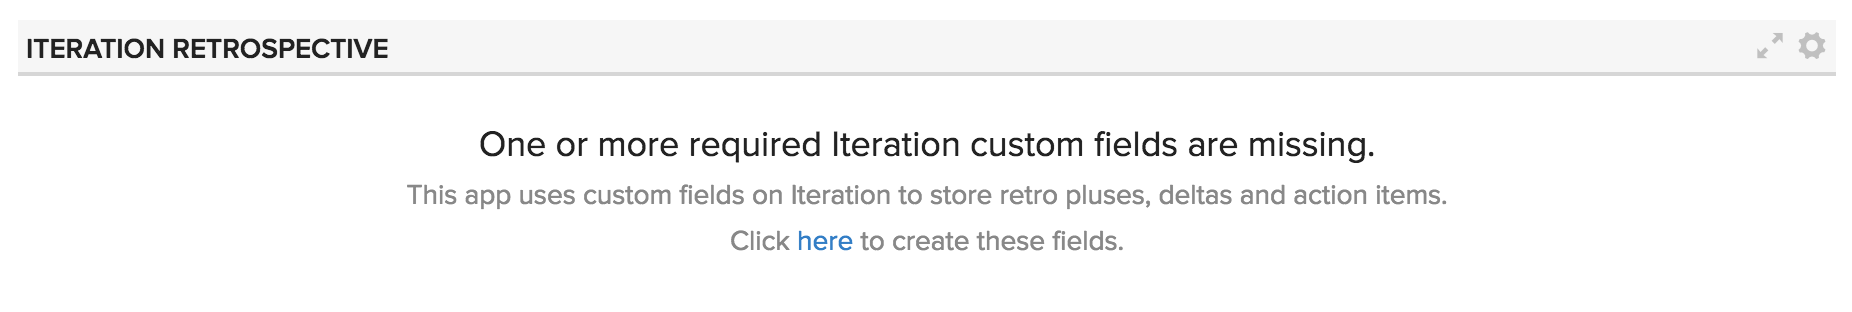
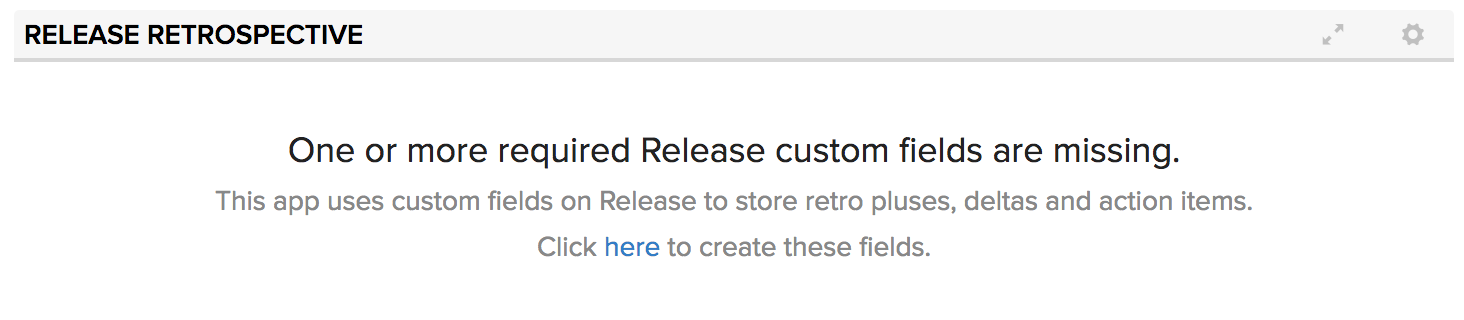
Fix screenshots

diff --git a/deploy/App-external.html b/deploy/App-external.html
@@ -7,7 +7,7 @@
 
     <script type="text/javascript">
         Rally.onReady(function () {
-                var REQUIRED_FIELDS={c_RetroPluses:"Retro Pluses",c_RetroDeltas:"Retro Deltas",c_RetroActions:"Retro Actions"};Ext.define("IterationRetroApp",{extend:"Rally.app.TimeboxScopedApp",componentCls:"app",scopeType:"iteration",supportsUnscheduled:!1,initComponent:function(){this.callParent(arguments),this.add({xtype:"container",itemId:"content"})},onScopeChange:function(){this.callParent(arguments),this.models?this._loadIteration():Rally.data.wsapi.ModelFactory.getModels({context:this.getContext(),types:["Iteration","AttributeDefinition"],success:function(models){this.models=models,this._loadIteration()},scope:this})},onNoAvailableTimeboxes:function(){this.callParent(arguments);var contentContainer=this.down("#content");contentContainer&&contentContainer.removeAll()},_loadIteration:function(){var id=this.getContext().getTimeboxScope().getRecord().getId();this.models.Iteration.load(id,{fetch:_.keys(REQUIRED_FIELDS)}).then({success:function(iteration){this.iteration=iteration,this._checkForFields()},scope:this})},_checkForFields:function(){var contentContainer=this.down("#content");if(contentContainer.removeAll(),_.every(_.keys(REQUIRED_FIELDS),this._fieldExists,this))contentContainer.add([{xtype:"panel",cls:"plus-panel",title:"+",titleAlign:"center",minWidth:550,items:[this._buildEditorFor("c_RetroPluses")]},{xtype:"panel",cls:"delta-panel",title:"Δ",titleAlign:"center",minWidth:550,items:[this._buildEditorFor("c_RetroDeltas")]},{xtype:"panel",cls:"actions-panel",title:"Action Items",titleAlign:"center",minWidth:550,items:[this._buildEditorFor("c_RetroActions")]}]);else{var isWorkspaceAdmin=this.getContext().getPermissions().isWorkspaceOrSubscriptionAdmin(this.getContext().getWorkspace());contentContainer.add({itemId:"missingFieldsBlankSlate",xtype:"container",cls:"no-data-container",items:[{xtype:"component",cls:"primary-message",html:"One or more required Iteration custom fields are missing."},{xtype:"component",cls:"secondary-message",html:"This app uses custom fields on Iteration to store retro pluses, deltas and action items."},{xtype:"component",cls:"secondary-message",html:isWorkspaceAdmin?'Click <a href="#" class="create-fields-link">here</a> to create these fields.':"Please contact a workspace administrator to set up these fields using this app.",listeners:{afterrender:function(cmp){var linkEl=cmp.getEl().down(".create-fields-link");this.mon(linkEl,"click",this._createRequiredFields,this)},scope:this}}]})}},_buildEditorFor:function(fieldName){return{xtype:"rallyrichtexteditor",itemId:fieldName.replace("c_R","r"),fieldName:fieldName,showUndoButton:!0,margin:"0 10px",height:200,value:this.iteration.get(fieldName),listeners:{blur:this._onEditorChange,scope:this}}},_fieldExists:function(name){return!!_.find(this.models.Iteration.getFields(),function(field){return field.isCustom()&&"text"===field.getType()&&field.name===name})},_createRequiredFields:function(e){e.preventDefault(),this.setLoading({msg:"Creating fields..."});var missingFields=_.reject(_.keys(REQUIRED_FIELDS),this._fieldExists,this);Deft.Promise.all(_.map(missingFields,this._createRequiredField,this)).then({success:this._requiredFieldsCreated,scope:this})},_createRequiredField:function(name){_.each(["RealAttributeType","Constrained","TypeDefinition"],function(fieldName){this.models.AttributeDefinition.getField(fieldName).persist=!0},this);var newField=Ext.create(this.models.AttributeDefinition,{RealAttributeType:"TEXT",Constrained:!1,Custom:!0,Filterable:!0,Sortable:!1,Name:REQUIRED_FIELDS[name],TypeDefinition:Rally.util.Ref.getRelativeUri(this.models.Iteration.typeDefinition)});return newField.save()},_requiredFieldsCreated:function(){Rally.data.wsapi.ModelFactory.clearModels(),Rally.data.wsapi.ModelFactory.getModel({context:this.getContext(),type:"Iteration"}).then({success:function(model){this.models.Iteration=model,this.setLoading(!1),this.onScopeChange()},scope:this})},_onEditorChange:function(editor){this.iteration.set(editor.fieldName,editor.getValue()),this.iteration.save({fetch:_.keys(REQUIRED_FIELDS)}).then({success:function(iteration){this.iteration=iteration,Ext.create("Rally.ui.detail.view.SavedIndicator",{target:editor})},scope:this})}});
+                var REQUIRED_FIELDS={c_RetroPluses:"Retro Pluses",c_RetroDeltas:"Retro Deltas",c_RetroActions:"Retro Actions"};Ext.define("ReleaseRetroApp",{extend:"Rally.app.TimeboxScopedApp",componentCls:"app",scopeType:"release",supportsUnscheduled:!1,initComponent:function(){this.callParent(arguments),this.add({xtype:"container",itemId:"content"})},onScopeChange:function(){this.callParent(arguments),this.models?this._loadRelease():Rally.data.wsapi.ModelFactory.getModels({context:this.getContext(),types:["Release","AttributeDefinition"],success:function(models){this.models=models,this._loadRelease()},scope:this})},onNoAvailableTimeboxes:function(){this.callParent(arguments);var contentContainer=this.down("#content");contentContainer&&contentContainer.removeAll()},_loadRelease:function(){var id=this.getContext().getTimeboxScope().getRecord().getId();this.models.Release.load(id,{fetch:_.keys(REQUIRED_FIELDS)}).then({success:function(release){this.release=release,this._checkForFields()},scope:this})},_checkForFields:function(){var contentContainer=this.down("#content");if(contentContainer.removeAll(),_.every(_.keys(REQUIRED_FIELDS),this._fieldExists,this))contentContainer.add([{xtype:"panel",cls:"plus-panel",title:"+",titleAlign:"center",minWidth:550,items:[this._buildEditorFor("c_RetroPluses")]},{xtype:"panel",cls:"delta-panel",title:"Δ",titleAlign:"center",minWidth:550,items:[this._buildEditorFor("c_RetroDeltas")]},{xtype:"panel",cls:"actions-panel",title:"Action Items",titleAlign:"center",minWidth:550,items:[this._buildEditorFor("c_RetroActions")]}]);else{var isWorkspaceAdmin=this.getContext().getPermissions().isWorkspaceOrSubscriptionAdmin(this.getContext().getWorkspace());contentContainer.add({itemId:"missingFieldsBlankSlate",xtype:"container",cls:"no-data-container",items:[{xtype:"component",cls:"primary-message",html:"One or more required Release custom fields are missing."},{xtype:"component",cls:"secondary-message",html:"This app uses custom fields on Release to store retro pluses, deltas and action items."},{xtype:"component",cls:"secondary-message",html:isWorkspaceAdmin?'Click <a href="#" class="create-fields-link">here</a> to create these fields.':"Please contact a workspace administrator to set up these fields using this app.",listeners:{afterrender:function(cmp){var linkEl=cmp.getEl().down(".create-fields-link");this.mon(linkEl,"click",this._createRequiredFields,this)},scope:this}}]})}},_buildEditorFor:function(fieldName){return{xtype:"rallyrichtexteditor",itemId:fieldName.replace("c_R","r"),fieldName:fieldName,showUndoButton:!0,margin:"0 10px",height:200,value:this.release.get(fieldName),listeners:{blur:this._onEditorChange,scope:this}}},_fieldExists:function(name){return!!_.find(this.models.Release.getFields(),function(field){return field.isCustom()&&"text"===field.getType()&&field.name===name})},_createRequiredFields:function(e){e.preventDefault(),this.setLoading({msg:"Creating fields..."});var missingFields=_.reject(_.keys(REQUIRED_FIELDS),this._fieldExists,this);Deft.Promise.all(_.map(missingFields,this._createRequiredField,this)).then({success:this._requiredFieldsCreated,scope:this})},_createRequiredField:function(name){_.each(["RealAttributeType","Constrained","TypeDefinition"],function(fieldName){this.models.AttributeDefinition.getField(fieldName).persist=!0},this);var newField=Ext.create(this.models.AttributeDefinition,{RealAttributeType:"TEXT",Constrained:!1,Custom:!0,Filterable:!0,Sortable:!1,Name:REQUIRED_FIELDS[name],TypeDefinition:Rally.util.Ref.getRelativeUri(this.models.Release.typeDefinition)});return newField.save()},_requiredFieldsCreated:function(){Rally.data.wsapi.ModelFactory.clearModels(),Rally.data.wsapi.ModelFactory.getModel({context:this.getContext(),type:"Release"}).then({success:function(model){this.models.Release=model,this.setLoading(!1),this.onScopeChange()},scope:this})},_onEditorChange:function(editor){this.release.set(editor.fieldName,editor.getValue()),this.release.save({fetch:_.keys(REQUIRED_FIELDS)}).then({success:function(release){this.release=release,Ext.create("Rally.ui.detail.view.SavedIndicator",{target:editor})},scope:this})}});
 
             Rally.launchApp('ReleaseRetroApp', {
                 name:"Release Retrospective",

diff --git a/deploy/App.html b/deploy/App.html
@@ -7,7 +7,7 @@
 
     <script type="text/javascript">
         Rally.onReady(function () {
-                var REQUIRED_FIELDS={c_RetroPluses:"Retro Pluses",c_RetroDeltas:"Retro Deltas",c_RetroActions:"Retro Actions"};Ext.define("IterationRetroApp",{extend:"Rally.app.TimeboxScopedApp",componentCls:"app",scopeType:"iteration",supportsUnscheduled:!1,initComponent:function(){this.callParent(arguments),this.add({xtype:"container",itemId:"content"})},onScopeChange:function(){this.callParent(arguments),this.models?this._loadIteration():Rally.data.wsapi.ModelFactory.getModels({context:this.getContext(),types:["Iteration","AttributeDefinition"],success:function(models){this.models=models,this._loadIteration()},scope:this})},onNoAvailableTimeboxes:function(){this.callParent(arguments);var contentContainer=this.down("#content");contentContainer&&contentContainer.removeAll()},_loadIteration:function(){var id=this.getContext().getTimeboxScope().getRecord().getId();this.models.Iteration.load(id,{fetch:_.keys(REQUIRED_FIELDS)}).then({success:function(iteration){this.iteration=iteration,this._checkForFields()},scope:this})},_checkForFields:function(){var contentContainer=this.down("#content");if(contentContainer.removeAll(),_.every(_.keys(REQUIRED_FIELDS),this._fieldExists,this))contentContainer.add([{xtype:"panel",cls:"plus-panel",title:"+",titleAlign:"center",minWidth:550,items:[this._buildEditorFor("c_RetroPluses")]},{xtype:"panel",cls:"delta-panel",title:"Δ",titleAlign:"center",minWidth:550,items:[this._buildEditorFor("c_RetroDeltas")]},{xtype:"panel",cls:"actions-panel",title:"Action Items",titleAlign:"center",minWidth:550,items:[this._buildEditorFor("c_RetroActions")]}]);else{var isWorkspaceAdmin=this.getContext().getPermissions().isWorkspaceOrSubscriptionAdmin(this.getContext().getWorkspace());contentContainer.add({itemId:"missingFieldsBlankSlate",xtype:"container",cls:"no-data-container",items:[{xtype:"component",cls:"primary-message",html:"One or more required Iteration custom fields are missing."},{xtype:"component",cls:"secondary-message",html:"This app uses custom fields on Iteration to store retro pluses, deltas and action items."},{xtype:"component",cls:"secondary-message",html:isWorkspaceAdmin?'Click <a href="#" class="create-fields-link">here</a> to create these fields.':"Please contact a workspace administrator to set up these fields using this app.",listeners:{afterrender:function(cmp){var linkEl=cmp.getEl().down(".create-fields-link");this.mon(linkEl,"click",this._createRequiredFields,this)},scope:this}}]})}},_buildEditorFor:function(fieldName){return{xtype:"rallyrichtexteditor",itemId:fieldName.replace("c_R","r"),fieldName:fieldName,showUndoButton:!0,margin:"0 10px",height:200,value:this.iteration.get(fieldName),listeners:{blur:this._onEditorChange,scope:this}}},_fieldExists:function(name){return!!_.find(this.models.Iteration.getFields(),function(field){return field.isCustom()&&"text"===field.getType()&&field.name===name})},_createRequiredFields:function(e){e.preventDefault(),this.setLoading({msg:"Creating fields..."});var missingFields=_.reject(_.keys(REQUIRED_FIELDS),this._fieldExists,this);Deft.Promise.all(_.map(missingFields,this._createRequiredField,this)).then({success:this._requiredFieldsCreated,scope:this})},_createRequiredField:function(name){_.each(["RealAttributeType","Constrained","TypeDefinition"],function(fieldName){this.models.AttributeDefinition.getField(fieldName).persist=!0},this);var newField=Ext.create(this.models.AttributeDefinition,{RealAttributeType:"TEXT",Constrained:!1,Custom:!0,Filterable:!0,Sortable:!1,Name:REQUIRED_FIELDS[name],TypeDefinition:Rally.util.Ref.getRelativeUri(this.models.Iteration.typeDefinition)});return newField.save()},_requiredFieldsCreated:function(){Rally.data.wsapi.ModelFactory.clearModels(),Rally.data.wsapi.ModelFactory.getModel({context:this.getContext(),type:"Iteration"}).then({success:function(model){this.models.Iteration=model,this.setLoading(!1),this.onScopeChange()},scope:this})},_onEditorChange:function(editor){this.iteration.set(editor.fieldName,editor.getValue()),this.iteration.save({fetch:_.keys(REQUIRED_FIELDS)}).then({success:function(iteration){this.iteration=iteration,Ext.create("Rally.ui.detail.view.SavedIndicator",{target:editor})},scope:this})}});
+                var REQUIRED_FIELDS={c_RetroPluses:"Retro Pluses",c_RetroDeltas:"Retro Deltas",c_RetroActions:"Retro Actions"};Ext.define("ReleaseRetroApp",{extend:"Rally.app.TimeboxScopedApp",componentCls:"app",scopeType:"release",supportsUnscheduled:!1,initComponent:function(){this.callParent(arguments),this.add({xtype:"container",itemId:"content"})},onScopeChange:function(){this.callParent(arguments),this.models?this._loadRelease():Rally.data.wsapi.ModelFactory.getModels({context:this.getContext(),types:["Release","AttributeDefinition"],success:function(models){this.models=models,this._loadRelease()},scope:this})},onNoAvailableTimeboxes:function(){this.callParent(arguments);var contentContainer=this.down("#content");contentContainer&&contentContainer.removeAll()},_loadRelease:function(){var id=this.getContext().getTimeboxScope().getRecord().getId();this.models.Release.load(id,{fetch:_.keys(REQUIRED_FIELDS)}).then({success:function(release){this.release=release,this._checkForFields()},scope:this})},_checkForFields:function(){var contentContainer=this.down("#content");if(contentContainer.removeAll(),_.every(_.keys(REQUIRED_FIELDS),this._fieldExists,this))contentContainer.add([{xtype:"panel",cls:"plus-panel",title:"+",titleAlign:"center",minWidth:550,items:[this._buildEditorFor("c_RetroPluses")]},{xtype:"panel",cls:"delta-panel",title:"Δ",titleAlign:"center",minWidth:550,items:[this._buildEditorFor("c_RetroDeltas")]},{xtype:"panel",cls:"actions-panel",title:"Action Items",titleAlign:"center",minWidth:550,items:[this._buildEditorFor("c_RetroActions")]}]);else{var isWorkspaceAdmin=this.getContext().getPermissions().isWorkspaceOrSubscriptionAdmin(this.getContext().getWorkspace());contentContainer.add({itemId:"missingFieldsBlankSlate",xtype:"container",cls:"no-data-container",items:[{xtype:"component",cls:"primary-message",html:"One or more required Release custom fields are missing."},{xtype:"component",cls:"secondary-message",html:"This app uses custom fields on Release to store retro pluses, deltas and action items."},{xtype:"component",cls:"secondary-message",html:isWorkspaceAdmin?'Click <a href="#" class="create-fields-link">here</a> to create these fields.':"Please contact a workspace administrator to set up these fields using this app.",listeners:{afterrender:function(cmp){var linkEl=cmp.getEl().down(".create-fields-link");this.mon(linkEl,"click",this._createRequiredFields,this)},scope:this}}]})}},_buildEditorFor:function(fieldName){return{xtype:"rallyrichtexteditor",itemId:fieldName.replace("c_R","r"),fieldName:fieldName,showUndoButton:!0,margin:"0 10px",height:200,value:this.release.get(fieldName),listeners:{blur:this._onEditorChange,scope:this}}},_fieldExists:function(name){return!!_.find(this.models.Release.getFields(),function(field){return field.isCustom()&&"text"===field.getType()&&field.name===name})},_createRequiredFields:function(e){e.preventDefault(),this.setLoading({msg:"Creating fields..."});var missingFields=_.reject(_.keys(REQUIRED_FIELDS),this._fieldExists,this);Deft.Promise.all(_.map(missingFields,this._createRequiredField,this)).then({success:this._requiredFieldsCreated,scope:this})},_createRequiredField:function(name){_.each(["RealAttributeType","Constrained","TypeDefinition"],function(fieldName){this.models.AttributeDefinition.getField(fieldName).persist=!0},this);var newField=Ext.create(this.models.AttributeDefinition,{RealAttributeType:"TEXT",Constrained:!1,Custom:!0,Filterable:!0,Sortable:!1,Name:REQUIRED_FIELDS[name],TypeDefinition:Rally.util.Ref.getRelativeUri(this.models.Release.typeDefinition)});return newField.save()},_requiredFieldsCreated:function(){Rally.data.wsapi.ModelFactory.clearModels(),Rally.data.wsapi.ModelFactory.getModel({context:this.getContext(),type:"Release"}).then({success:function(model){this.models.Release=model,this.setLoading(!1),this.onScopeChange()},scope:this})},_onEditorChange:function(editor){this.release.set(editor.fieldName,editor.getValue()),this.release.save({fetch:_.keys(REQUIRED_FIELDS)}).then({success:function(release){this.release=release,Ext.create("Rally.ui.detail.view.SavedIndicator",{target:editor})},scope:this})}});
 
             Rally.launchApp('ReleaseRetroApp', {
                 name:"Release Retrospective",

diff --git a/ReleaseRetroApp.js b/ReleaseRetroApp.js
@@ -4,10 +4,10 @@ var REQUIRED_FIELDS = {
     c_RetroActions: 'Retro Actions'
 };
 
-Ext.define('IterationRetroApp', {
+Ext.define('ReleaseRetroApp', {
     extend: 'Rally.app.TimeboxScopedApp',
     componentCls: 'app',
-    scopeType: 'iteration',
+    scopeType: 'release',
     supportsUnscheduled: false,
 
     initComponent: function() {
@@ -25,15 +25,15 @@ Ext.define('IterationRetroApp', {
         if (!this.models) {
             Rally.data.wsapi.ModelFactory.getModels({
                 context: this.getContext(),
-                types: ['Iteration', 'AttributeDefinition'],
+                types: ['Release', 'AttributeDefinition'],
                 success: function(models) {
                     this.models = models;
-                    this._loadIteration();
+                    this._loadRelease();
                 },
                 scope: this
             });
         } else {
-            this._loadIteration();
+            this._loadRelease();
         }
     },
 
@@ -45,13 +45,13 @@ Ext.define('IterationRetroApp', {
         }
     },
 
-    _loadIteration: function() {
+    _loadRelease: function() {
         var id = this.getContext().getTimeboxScope().getRecord().getId();
-        this.models.Iteration.load(id, {
+        this.models.Release.load(id, {
             fetch: _.keys(REQUIRED_FIELDS)
         }).then({
-            success: function(iteration) {
-                this.iteration = iteration;
+            success: function(release) {
+                this.release = release;
                 this._checkForFields();
             },
             scope: this
@@ -71,12 +71,12 @@ Ext.define('IterationRetroApp', {
                     {
                         xtype: 'component',
                         cls: 'primary-message',
-                        html: 'One or more required Iteration custom fields are missing.'
+                        html: 'One or more required Release custom fields are missing.'
                     },
                     {
                         xtype: 'component',
                         cls: 'secondary-message',
-                        html: 'This app uses custom fields on Iteration to store retro pluses, deltas and action items.'
+                        html: 'This app uses custom fields on Release to store retro pluses, deltas and action items.'
                     },
                     {
                         xtype: 'component',
@@ -132,7 +132,7 @@ Ext.define('IterationRetroApp', {
             showUndoButton: true,
             margin: '0 10px',
             height: 200,
-            value: this.iteration.get(fieldName),
+            value: this.release.get(fieldName),
             listeners: {
                 blur: this._onEditorChange,
                 scope: this
@@ -141,7 +141,7 @@ Ext.define('IterationRetroApp', {
     },
 
     _fieldExists: function(name) {
-        return !!_.find(this.models.Iteration.getFields(), function(field) {
+        return !!_.find(this.models.Release.getFields(), function(field) {
             return field.isCustom() && field.getType() === 'text' && field.name === name;
         });
     },
@@ -171,7 +171,7 @@ Ext.define('IterationRetroApp', {
             Filterable: true,
             Sortable: false,
             Name: REQUIRED_FIELDS[name],
-            TypeDefinition: Rally.util.Ref.getRelativeUri(this.models.Iteration.typeDefinition)
+            TypeDefinition: Rally.util.Ref.getRelativeUri(this.models.Release.typeDefinition)
         });
         return newField.save();
     },
@@ -180,10 +180,10 @@ Ext.define('IterationRetroApp', {
         Rally.data.wsapi.ModelFactory.clearModels();
         Rally.data.wsapi.ModelFactory.getModel({
             context: this.getContext(),
-            type: 'Iteration'
+            type: 'Release'
         }).then({
             success: function(model) {
-                this.models.Iteration = model;
+                this.models.Release = model;
                 this.setLoading(false);
                 this.onScopeChange();
             },
@@ -192,12 +192,12 @@ Ext.define('IterationRetroApp', {
     },
 
     _onEditorChange: function(editor) {
-        this.iteration.set(editor.fieldName, editor.getValue());
-        this.iteration.save({
+        this.release.set(editor.fieldName, editor.getValue());
+        this.release.save({
             fetch: _.keys(REQUIRED_FIELDS)
         }).then({
-            success: function(iteration) {
-                this.iteration = iteration;
+            success: function(release) {
+                this.release = release;
                 Ext.create('Rally.ui.detail.view.SavedIndicator', {
                     target: editor
                 });

diff --git a/deploy/App-uncompressed.html b/deploy/App-uncompressed.html
@@ -13,10 +13,10 @@
     c_RetroActions: 'Retro Actions'
 };
 
-Ext.define('IterationRetroApp', {
+Ext.define('ReleaseRetroApp', {
     extend: 'Rally.app.TimeboxScopedApp',
     componentCls: 'app',
-    scopeType: 'iteration',
+    scopeType: 'release',
     supportsUnscheduled: false,
 
     initComponent: function() {
@@ -34,15 +34,15 @@ Ext.define('IterationRetroApp', {
         if (!this.models) {
             Rally.data.wsapi.ModelFactory.getModels({
                 context: this.getContext(),
-                types: ['Iteration', 'AttributeDefinition'],
+                types: ['Release', 'AttributeDefinition'],
                 success: function(models) {
                     this.models = models;
-                    this._loadIteration();
+                    this._loadRelease();
                 },
                 scope: this
             });
         } else {
-            this._loadIteration();
+            this._loadRelease();
         }
     },
 
@@ -54,13 +54,13 @@ Ext.define('IterationRetroApp', {
         }
     },
 
-    _loadIteration: function() {
+    _loadRelease: function() {
         var id = this.getContext().getTimeboxScope().getRecord().getId();
-        this.models.Iteration.load(id, {
+        this.models.Release.load(id, {
             fetch: _.keys(REQUIRED_FIELDS)
         }).then({
-            success: function(iteration) {
-                this.iteration = iteration;
+            success: function(release) {
+                this.release = release;
                 this._checkForFields();
             },
             scope: this
@@ -80,12 +80,12 @@ Ext.define('IterationRetroApp', {
                     {
                         xtype: 'component',
                         cls: 'primary-message',
-                        html: 'One or more required Iteration custom fields are missing.'
+                        html: 'One or more required Release custom fields are missing.'
                     },
                     {
                         xtype: 'component',
                         cls: 'secondary-message',
-                        html: 'This app uses custom fields on Iteration to store retro pluses, deltas and action items.'
+                        html: 'This app uses custom fields on Release to store retro pluses, deltas and action items.'
                     },
                     {
                         xtype: 'component',
@@ -141,7 +141,7 @@ Ext.define('IterationRetroApp', {
             showUndoButton: true,
             margin: '0 10px',
             height: 200,
-            value: this.iteration.get(fieldName),
+            value: this.release.get(fieldName),
             listeners: {
                 blur: this._onEditorChange,
                 scope: this
@@ -150,7 +150,7 @@ Ext.define('IterationRetroApp', {
     },
 
     _fieldExists: function(name) {
-        return !!_.find(this.models.Iteration.getFields(), function(field) {
+        return !!_.find(this.models.Release.getFields(), function(field) {
             return field.isCustom() && field.getType() === 'text' && field.name === name;
         });
     },
@@ -180,7 +180,7 @@ Ext.define('IterationRetroApp', {
             Filterable: true,
             Sortable: false,
             Name: REQUIRED_FIELDS[name],
-            TypeDefinition: Rally.util.Ref.getRelativeUri(this.models.Iteration.typeDefinition)
+            TypeDefinition: Rally.util.Ref.getRelativeUri(this.models.Release.typeDefinition)
         });
         return newField.save();
     },
@@ -189,10 +189,10 @@ Ext.define('IterationRetroApp', {
         Rally.data.wsapi.ModelFactory.clearModels();
         Rally.data.wsapi.ModelFactory.getModel({
             context: this.getContext(),
-            type: 'Iteration'
+            type: 'Release'
         }).then({
             success: function(model) {
-                this.models.Iteration = model;
+                this.models.Release = model;
                 this.setLoading(false);
                 this.onScopeChange();
             },
@@ -201,12 +201,12 @@ Ext.define('IterationRetroApp', {
     },
 
     _onEditorChange: function(editor) {
-        this.iteration.set(editor.fieldName, editor.getValue());
-        this.iteration.save({
+        this.release.set(editor.fieldName, editor.getValue());
+        this.release.save({
             fetch: _.keys(REQUIRED_FIELDS)
         }).then({
-            success: function(iteration) {
-                this.iteration = iteration;
+            success: function(release) {
+                this.release = release;
                 Ext.create('Rally.ui.detail.view.SavedIndicator', {
                     target: editor
                 });
